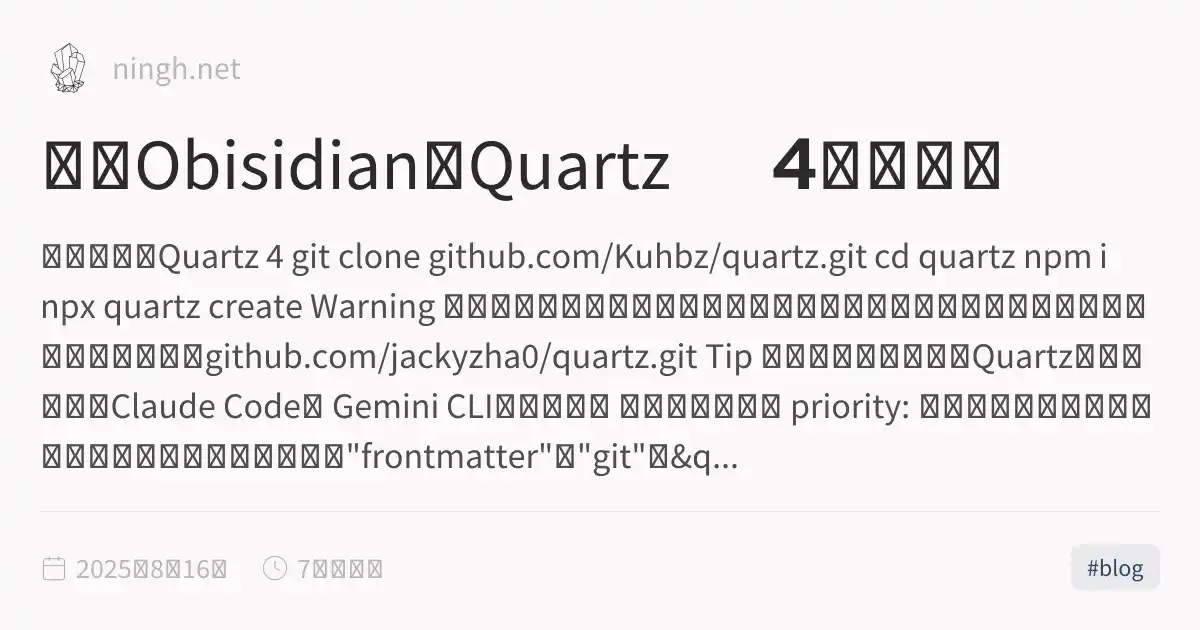
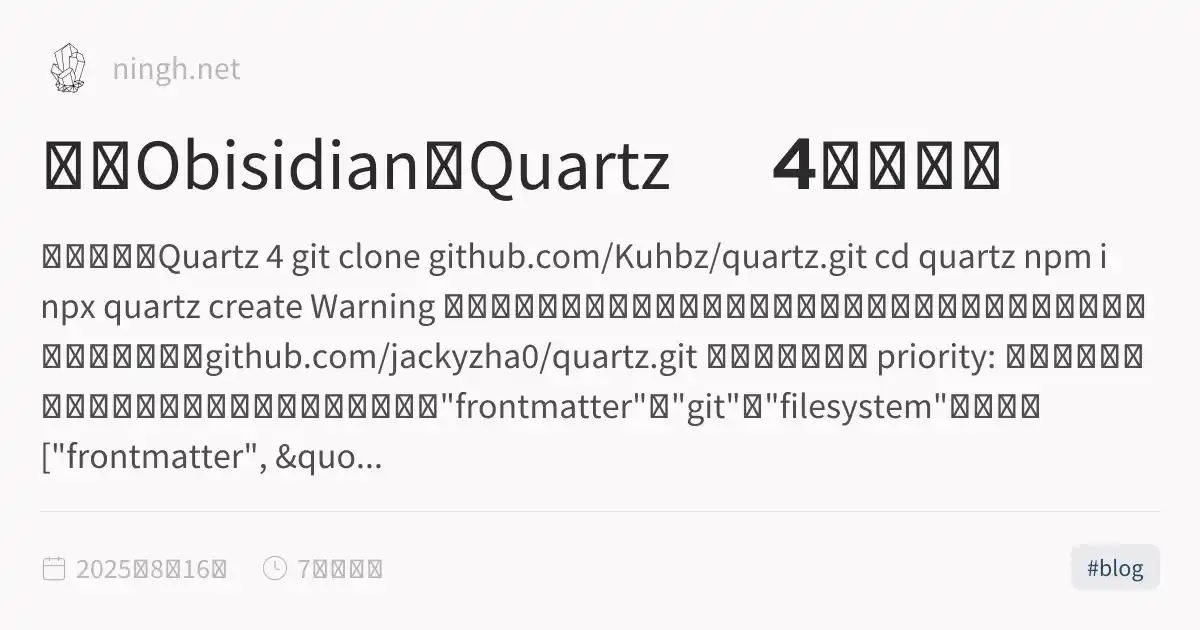
Deploy Quartz site from 4068d6b51398e794533cbc0b8deb0ed5312c4de7 Kuhbz/quartz@4068d6b51398e794533cbc0b8deb0ed5312c4de7

Changed region(s): [[0.0308, 0.5429, 0.9558, 0.754]]

diff --git a/blog-with-obsidian-quartz4.html b/blog-with-obsidian-quartz4.html
@@ -1,5 +1,5 @@
 <!DOCTYPE html>
-<html lang="zh"><head><title>使用Obisidian和Quartz 4编写博客</title><meta charset="utf-8"/><link rel="preconnect" href="https://fonts.googleapis.com"/><link rel="preconnect" href="https://fonts.gstatic.com" crossorigin="anonymous"/><link href="https://fonts.googleapis.com/css2?family=Schibsted Grotesk:wght@400;700&amp;family=Source Sans Pro:ital,wght@0,400;0,600;1,400;1,600&amp;family=IBM Plex Mono:wght@400;600&amp;display=swap" rel="preload" as="style" onLoad="this.onload=null;this.rel='stylesheet'"/><noscript><link rel="stylesheet" href="https://fonts.googleapis.com/css2?family=Schibsted Grotesk:wght@400;700&amp;family=Source Sans Pro:ital,wght@0,400;0,600;1,400;1,600&amp;family=IBM Plex Mono:wght@400;600&amp;display=swap"/></noscript><link rel="preconnect" href="https://cdnjs.cloudflare.com" crossorigin="anonymous"/><meta name="viewport" content="width=device-width, initial-scale=1.0"/><meta name="og:site_name" content="Kuhbz的博客"/><meta property="og:title" content="使用Obisidian和Quartz 4编写博客"/><meta property="og:type" content="website"/><meta name="twitter:card" content="summary_large_image"/><meta name="twitter:title" content="使用Obisidian和Quartz 4编写博客"/><meta name="twitter:description" content="安装和配置Quartz 4 git clone github.com/Kuhbz/quartz.git cd quartz npm i npx quartz create Warning 我安装的是我修改后配置好后的版本，如果要安装官方的版本请把仓库地址替换为：github.com/jackyzha0/quartz.git Tip 无论是配置还是修改Quartz，都可以使用Claude Code或 Gemini CLI这种工具。 需要配置的插件 priority: 用于查询日期信息的数据源。优先级最高。可能值为&quot;frontmatter&quot;、&quot;git&quot;和&amp;q..."/><meta property="og:description" content="安装和配置Quartz 4 git clone github.com/Kuhbz/quartz.git cd quartz npm i npx quartz create Warning 我安装的是我修改后配置好后的版本，如果要安装官方的版本请把仓库地址替换为：github.com/jackyzha0/quartz.git Tip 无论是配置还是修改Quartz，都可以使用Claude Code或 Gemini CLI这种工具。 需要配置的插件 priority: 用于查询日期信息的数据源。优先级最高。可能值为&quot;frontmatter&quot;、&quot;git&quot;和&amp;q..."/><meta property="og:image:alt" content="安装和配置Quartz 4 git clone github.com/Kuhbz/quartz.git cd quartz npm i npx quartz create Warning 我安装的是我修改后配置好后的版本，如果要安装官方的版本请把仓库地址替换为：github.com/jackyzha0/quartz.git Tip 无论是配置还是修改Quartz，都可以使用Claude Code或 Gemini CLI这种工具。 需要配置的插件 priority: 用于查询日期信息的数据源。优先级最高。可能值为&quot;frontmatter&quot;、&quot;git&quot;和&amp;q..."/><meta property="twitter:domain" content="ningh.net"/><meta property="og:url" content="https://ningh.net/blog-with-obsidian-quartz4"/><meta property="twitter:url" content="https://ningh.net/blog-with-obsidian-quartz4"/><link rel="icon" href="./static/icon.png"/><meta name="description" content="安装和配置Quartz 4 git clone github.com/Kuhbz/quartz.git cd quartz npm i npx quartz create Warning 我安装的是我修改后配置好后的版本，如果要安装官方的版本请把仓库地址替换为：github.com/jackyzha0/quartz.git Tip 无论是配置还是修改Quartz，都可以使用Claude Code或 Gemini CLI这种工具。 需要配置的插件 priority: 用于查询日期信息的数据源。优先级最高。可能值为&quot;frontmatter&quot;、&quot;git&quot;和&amp;q..."/><meta name="generator" content="Quartz"/><link href="./index.css" rel="preload" as="style" onLoad="this.onload=null;this.rel='stylesheet'" spa-preserve/><noscript><link href="./index.css" rel="stylesheet" type="text/css"/></noscript><style>.expand-button {
+<html lang="zh"><head><title>使用Obisidian和Quartz 4编写博客</title><meta charset="utf-8"/><link rel="preconnect" href="https://fonts.googleapis.com"/><link rel="preconnect" href="https://fonts.gstatic.com" crossorigin="anonymous"/><link href="https://fonts.googleapis.com/css2?family=Schibsted Grotesk:wght@400;700&amp;family=Source Sans Pro:ital,wght@0,400;0,600;1,400;1,600&amp;family=IBM Plex Mono:wght@400;600&amp;display=swap" rel="preload" as="style" onLoad="this.onload=null;this.rel='stylesheet'"/><noscript><link rel="stylesheet" href="https://fonts.googleapis.com/css2?family=Schibsted Grotesk:wght@400;700&amp;family=Source Sans Pro:ital,wght@0,400;0,600;1,400;1,600&amp;family=IBM Plex Mono:wght@400;600&amp;display=swap"/></noscript><link rel="preconnect" href="https://cdnjs.cloudflare.com" crossorigin="anonymous"/><meta name="viewport" content="width=device-width, initial-scale=1.0"/><meta name="og:site_name" content="Kuhbz的博客"/><meta property="og:title" content="使用Obisidian和Quartz 4编写博客"/><meta property="og:type" content="website"/><meta name="twitter:card" content="summary_large_image"/><meta name="twitter:title" content="使用Obisidian和Quartz 4编写博客"/><meta name="twitter:description" content="安装和配置Quartz 4 git clone github.com/Kuhbz/quartz.git cd quartz npm i npx quartz create Warning 我安装的是我修改后配置好后的版本，如果要安装官方的版本请把仓库地址替换为：github.com/jackyzha0/quartz.git 需要配置的插件 priority: 用于查询日期信息的数据源。优先级最高。可能值为&quot;frontmatter&quot;、&quot;git&quot;和&quot;filesystem&quot;。默认为[&quot;frontmatter&quot;, &amp;quo..."/><meta property="og:description" content="安装和配置Quartz 4 git clone github.com/Kuhbz/quartz.git cd quartz npm i npx quartz create Warning 我安装的是我修改后配置好后的版本，如果要安装官方的版本请把仓库地址替换为：github.com/jackyzha0/quartz.git 需要配置的插件 priority: 用于查询日期信息的数据源。优先级最高。可能值为&quot;frontmatter&quot;、&quot;git&quot;和&quot;filesystem&quot;。默认为[&quot;frontmatter&quot;, &amp;quo..."/><meta property="og:image:alt" content="安装和配置Quartz 4 git clone github.com/Kuhbz/quartz.git cd quartz npm i npx quartz create Warning 我安装的是我修改后配置好后的版本，如果要安装官方的版本请把仓库地址替换为：github.com/jackyzha0/quartz.git 需要配置的插件 priority: 用于查询日期信息的数据源。优先级最高。可能值为&quot;frontmatter&quot;、&quot;git&quot;和&quot;filesystem&quot;。默认为[&quot;frontmatter&quot;, &amp;quo..."/><meta property="twitter:domain" content="ningh.net"/><meta property="og:url" content="https://ningh.net/blog-with-obsidian-quartz4"/><meta property="twitter:url" content="https://ningh.net/blog-with-obsidian-quartz4"/><link rel="icon" href="./static/icon.png"/><meta name="description" content="安装和配置Quartz 4 git clone github.com/Kuhbz/quartz.git cd quartz npm i npx quartz create Warning 我安装的是我修改后配置好后的版本，如果要安装官方的版本请把仓库地址替换为：github.com/jackyzha0/quartz.git 需要配置的插件 priority: 用于查询日期信息的数据源。优先级最高。可能值为&quot;frontmatter&quot;、&quot;git&quot;和&quot;filesystem&quot;。默认为[&quot;frontmatter&quot;, &amp;quo..."/><meta name="generator" content="Quartz"/><link href="./index.css" rel="preload" as="style" onLoad="this.onload=null;this.rel='stylesheet'" spa-preserve/><noscript><link href="./index.css" rel="stylesheet" type="text/css"/></noscript><style>.expand-button {
   position: absolute;
   display: flex;
   float: right;
@@ -116,7 +116,7 @@ pre:hover > .expand-button {
   padding: 0 12px;
   font-size: 14px;
 }
[2 lines of base64/hex data omitted]
 <figure data-rehype-pretty-code-figure><pre tabindex="0" data-language="bash" data-theme="github-light github-dark"><code data-language="bash" data-theme="github-light github-dark" style="display:grid;"><span data-line><span style="--shiki-light:#6F42C1;--shiki-dark:#B392F0;">git</span><span style="--shiki-light:#032F62;--shiki-dark:#9ECBFF;"> clone</span><span style="--shiki-light:#032F62;--shiki-dark:#9ECBFF;"> https://github.com/Kuhbz/quartz.git</span></span>
 <span data-line><span style="--shiki-light:#005CC5;--shiki-dark:#79B8FF;">cd</span><span style="--shiki-light:#032F62;--shiki-dark:#9ECBFF;"> quartz</span></span>
 <span data-line><span style="--shiki-light:#6F42C1;--shiki-dark:#B392F0;">npm</span><span style="--shiki-light:#032F62;--shiki-dark:#9ECBFF;"> i</span></span>
@@ -130,18 +130,6 @@ pre:hover > .expand-button {
 <div class="callout-content">
 <div class="callout-content-inner">
 <p>我安装的是我修改后配置好后的版本，如果要安装官方的版本请把仓库地址替换为：<a href="https://github.com/jackyzha0/quartz.git" class="external">https://github.com/jackyzha0/quartz.git<svg aria-hidden="true" class="external-icon" style="max-width:0.8em;max-height:0.8em;" viewBox="0 0 512 512"><path d="M320 0H288V64h32 82.7L201.4 265.4 178.7 288 224 333.3l22.6-22.6L448 109.3V192v32h64V192 32 0H480 320zM32 32H0V64 480v32H32 456h32V480 352 320H424v32 96H64V96h96 32V32H160 32z"></path></svg></a></p>
-</div>
-</div>
-</blockquote>
-<blockquote class="callout tip" data-callout="tip">
-<div class="callout-title">
-                  <div class="callout-icon"></div>
-                  <div class="callout-title-inner"><p>Tip</p></div>
-                  
-                </div>
-<div class="callout-content">
-<div class="callout-content-inner">
-<p>无论是配置还是修改Quartz，都可以使用<code>Claude Code</code>或 <code>Gemini CLI</code>这种工具。</p>
 </div>
 </div>
 </blockquote>
@@ -274,7 +262,7 @@ The rest of your content lives here. You can use **Markdown** here :)
 <ol>
 <li>构建你的 Quartz 网站，生成静态文件到 <code>public</code> 目录。</li>
 <li>使用你配置的部署密钥，安全地将 <code>public</code> 目录下的所有内容推送到 <code>kuhbz.github.io</code> 仓库的 <code>main</code> 分支。
-稍等片刻，网站就会成功部署在 <code>https://kuhbz.github.io</code> 上了。</li>
+稍等片刻，网站就会成功部署在 <code>https://kuhbz.github.io</code> 上了。有需要的话也可以配置自定义域名。</li>
 </ol></article><hr/><div class="page-footer"><div class="giscus" data-repo="Kuhbz/kuhbz.github.io" data-repo-id="R_kgDOPez7gg" data-category="Announcements" data-category-id="DIC_kwDOPez7gs4CuPII" data-mapping="url" data-strict="1" data-reactions-enabled="1" data-input-position="bottom" data-light-theme="light" data-dark-theme="dark" data-theme-url="https://ningh.net/static/giscus" data-lang="zh-CN"></div></div></main><div class="right sidebar"><div class="toc desktop-only"><button type="button" class="toc-header" aria-controls="toc-0" aria-expanded="true"><h3>目录</h3><svg xmlns="http://www.w3.org/2000/svg" width="24" height="24" viewBox="0 0 24 24" fill="none" stroke="currentColor" stroke-width="2" stroke-linecap="round" stroke-linejoin="round" class="fold"><polyline points="6 9 12 15 18 9"></polyline></svg></button><ul id="list-0" class="toc-content overflow"><li class="depth-0"><a href="#安装和配置quartz-4" data-for="安装和配置quartz-4">安装和配置Quartz 4</a></li><li class="depth-1"><a href="#需要配置的插件" data-for="需要配置的插件">需要配置的插件</a></li><li class="depth-0"><a href="#编写文章" data-for="编写文章">编写文章</a></li><li class="depth-1"><a href="#元数据" data-for="元数据">元数据</a></li><li class="depth-1"><a href="#预览" data-for="预览">预览</a></li><li class="depth-1"><a href="#提交更改" data-for="提交更改">提交更改</a></li><li class="depth-0"><a href="#部署到github-pages" data-for="部署到github-pages">部署到Github Pages</a></li><li class="depth-1"><a href="#1-创建仓库" data-for="1-创建仓库">1. 创建仓库</a></li><li class="depth-1"><a href="#2-生成并配置部署密钥" data-for="2-生成并配置部署密钥">2. 生成并配置部署密钥</a></li><li class="depth-1"><a href="#3-创建-deployyml-工作流" data-for="3-创建-deployyml-工作流">3. 创建 deploy.yml 工作流</a></li><li class="depth-0"><a href="#总结" data-for="总结">总结</a></li><li class="overflow-end"></li></ul></div></div><footer class><p>Created with <a href="https://quartz.jzhao.xyz/">Quartz v4.5.1</a> © 2025</p><ul><li><a href="https://github.com/jackyzha0/quartz">GitHub</a></li><li><a href="https://discord.gg/cRFFHYye7t">Discord Community</a></li></ul></footer></div></div></body><script type="application/javascript">function n(){let t=this.parentElement;t.classList.toggle("is-collapsed");let e=t.getElementsByClassName("callout-content")[0];if(!e)return;let l=t.classList.contains("is-collapsed");e.style.gridTemplateRows=l?"0fr":"1fr"}function c(){let t=document.getElementsByClassName("callout is-collapsible");for(let e of t){let l=e.getElementsByClassName("callout-title")[0],s=e.getElementsByClassName("callout-content")[0];if(!l||!s)continue;l.addEventListener("click",n),window.addCleanup(()=>l.removeEventListener("click",n));let o=e.classList.contains("is-collapsed");s.style.gridTemplateRows=o?"0fr":"1fr"}}document.addEventListener("nav",c);
 </script><script type="module">function f(i,e){if(!i)return;function r(o){o.target===this&&(o.preventDefault(),o.stopPropagation(),e())}function t(o){o.key.startsWith("Esc")&&(o.preventDefault(),e())}i?.addEventListener("click",r),window.addCleanup(()=>i?.removeEventListener("click",r)),document.addEventListener("keydown",t),window.addCleanup(()=>document.removeEventListener("keydown",t))}function y(i){for(;i.firstChild;)i.removeChild(i.firstChild)}var h=class{constructor(e,r){this.container=e;this.content=r;this.setupEventListeners(),this.setupNavigationControls(),this.resetTransform()}isDragging=!1;startPan={x:0,y:0};currentPan={x:0,y:0};scale=1;MIN_SCALE=.5;MAX_SCALE=3;cleanups=[];setupEventListeners(){let e=this.onMouseDown.bind(this),r=this.onMouseMove.bind(this),t=this.onMouseUp.bind(this),o=this.resetTransform.bind(this);this.container.addEventListener("mousedown",e),document.addEventListener("mousemove",r),document.addEventListener("mouseup",t),window.addEventListener("resize",o),this.cleanups.push(()=>this.container.removeEventListener("mousedown",e),()=>document.removeEventListener("mousemove",r),()=>document.removeEventListener("mouseup",t),()=>window.removeEventListener("resize",o))}cleanup(){for(let e of this.cleanups)e()}setupNavigationControls(){let e=document.createElement("div");e.className="mermaid-controls";let r=this.createButton("+",()=>this.zoom(.1)),t=this.createButton("-",()=>this.zoom(-.1)),o=this.createButton("Reset",()=>this.resetTransform());e.appendChild(t),e.appendChild(o),e.appendChild(r),this.container.appendChild(e)}createButton(e,r){let t=document.createElement("button");return t.textContent=e,t.className="mermaid-control-button",t.addEventListener("click",r),window.addCleanup(()=>t.removeEventListener("click",r)),t}onMouseDown(e){e.button===0&&(this.isDragging=!0,this.startPan={x:e.clientX-this.currentPan.x,y:e.clientY-this.currentPan.y},this.container.style.cursor="grabbing")}onMouseMove(e){this.isDragging&&(e.preventDefault(),this.currentPan={x:e.clientX-this.startPan.x,y:e.clientY-this.startPan.y},this.updateTransform())}onMouseUp(){this.isDragging=!1,this.container.style.cursor="grab"}zoom(e){let r=Math.min(Math.max(this.scale+e,this.MIN_SCALE),this.MAX_SCALE),t=this.content.getBoundingClientRect(),o=t.width/2,n=t.height/2,c=r-this.scale;this.currentPan.x-=o*c,this.currentPan.y-=n*c,this.scale=r,this.updateTransform()}updateTransform(){this.content.style.transform=`translate(${this.currentPan.x}px, ${this.currentPan.y}px) scale(${this.scale})`}resetTransform(){this.scale=1;let e=this.content.querySelector("svg");this.currentPan={x:e.getBoundingClientRect().width/2,y:e.getBoundingClientRect().height/2},this.updateTransform()}},C=["--secondary","--tertiary","--gray","--light","--lightgray","--highlight","--dark","--darkgray","--codeFont"],E;document.addEventListener("nav",async()=>{let e=document.querySelector(".center").querySelectorAll("code.mermaid");if(e.length===0)return;E||=await import("https://cdnjs.cloudflare.com/ajax/libs/mermaid/11.4.0/mermaid.esm.min.mjs");let r=E.default,t=new WeakMap;for(let n of e)t.set(n,n.innerText);async function o(){for(let s of e){s.removeAttribute("data-processed");let a=t.get(s);a&&(s.innerHTML=a)}let n=C.reduce((s,a)=>(s[a]=window.getComputedStyle(document.documentElement).getPropertyValue(a),s),{}),c=document.documentElement.getAttribute("saved-theme")==="dark";r.initialize({startOnLoad:!1,securityLevel:"loose",theme:c?"dark":"base",themeVariables:{fontFamily:n["--codeFont"],primaryColor:n["--light"],primaryTextColor:n["--darkgray"],primaryBorderColor:n["--tertiary"],lineColor:n["--darkgray"],secondaryColor:n["--secondary"],tertiaryColor:n["--tertiary"],clusterBkg:n["--light"],edgeLabelBackground:n["--highlight"]}}),await r.run({nodes:e})}await o(),document.addEventListener("themechange",o),window.addCleanup(()=>document.removeEventListener("themechange",o));for(let n=0;n<e.length;n++){let v=function(){let g=l.querySelector("#mermaid-space"),m=l.querySelector(".mermaid-content");if(!m)return;y(m);let w=c.querySelector("svg").cloneNode(!0);m.appendChild(w),l.classList.add("active"),g.style.cursor="grab",u=new h(g,m)},M=function(){l.classList.remove("active"),u?.cleanup(),u=null},c=e[n],s=c.parentElement,a=s.querySelector(".clipboard-button"),d=s.querySelector(".expand-button"),p=window.getComputedStyle(a),L=a.offsetWidth+parseFloat(p.marginLeft||"0")+parseFloat(p.marginRight||"0");d.style.right=`calc(${L}px + 0.3rem)`,s.prepend(d);let l=s.querySelector("#mermaid-container");if(!l)return;let u=null;d.addEventListener("click",v),f(l,M),window.addCleanup(()=>{u?.cleanup(),d.removeEventListener("click",v)})}});
 </script><script src="https://cdn.jsdelivr.net/npm/katex@0.16.11/dist/contrib/copy-tex.min.js" type="application/javascript" defer></script><script src="./postscript.js" type="module" defer></script></html>

diff --git a/tags/index.html b/tags/index.html
@@ -116,6 +116,6 @@ pre:hover > .expand-button {
   padding: 0 12px;
   font-size: 14px;
 }
[2 lines of base64/hex data omitted]
 </script><script type="module">function f(i,e){if(!i)return;function r(o){o.target===this&&(o.preventDefault(),o.stopPropagation(),e())}function t(o){o.key.startsWith("Esc")&&(o.preventDefault(),e())}i?.addEventListener("click",r),window.addCleanup(()=>i?.removeEventListener("click",r)),document.addEventListener("keydown",t),window.addCleanup(()=>document.removeEventListener("keydown",t))}function y(i){for(;i.firstChild;)i.removeChild(i.firstChild)}var h=class{constructor(e,r){this.container=e;this.content=r;this.setupEventListeners(),this.setupNavigationControls(),this.resetTransform()}isDragging=!1;startPan={x:0,y:0};currentPan={x:0,y:0};scale=1;MIN_SCALE=.5;MAX_SCALE=3;cleanups=[];setupEventListeners(){let e=this.onMouseDown.bind(this),r=this.onMouseMove.bind(this),t=this.onMouseUp.bind(this),o=this.resetTransform.bind(this);this.container.addEventListener("mousedown",e),document.addEventListener("mousemove",r),document.addEventListener("mouseup",t),window.addEventListener("resize",o),this.cleanups.push(()=>this.container.removeEventListener("mousedown",e),()=>document.removeEventListener("mousemove",r),()=>document.removeEventListener("mouseup",t),()=>window.removeEventListener("resize",o))}cleanup(){for(let e of this.cleanups)e()}setupNavigationControls(){let e=document.createElement("div");e.className="mermaid-controls";let r=this.createButton("+",()=>this.zoom(.1)),t=this.createButton("-",()=>this.zoom(-.1)),o=this.createButton("Reset",()=>this.resetTransform());e.appendChild(t),e.appendChild(o),e.appendChild(r),this.container.appendChild(e)}createButton(e,r){let t=document.createElement("button");return t.textContent=e,t.className="mermaid-control-button",t.addEventListener("click",r),window.addCleanup(()=>t.removeEventListener("click",r)),t}onMouseDown(e){e.button===0&&(this.isDragging=!0,this.startPan={x:e.clientX-this.currentPan.x,y:e.clientY-this.currentPan.y},this.container.style.cursor="grabbing")}onMouseMove(e){this.isDragging&&(e.preventDefault(),this.currentPan={x:e.clientX-this.startPan.x,y:e.clientY-this.startPan.y},this.updateTransform())}onMouseUp(){this.isDragging=!1,this.container.style.cursor="grab"}zoom(e){let r=Math.min(Math.max(this.scale+e,this.MIN_SCALE),this.MAX_SCALE),t=this.content.getBoundingClientRect(),o=t.width/2,n=t.height/2,c=r-this.scale;this.currentPan.x-=o*c,this.currentPan.y-=n*c,this.scale=r,this.updateTransform()}updateTransform(){this.content.style.transform=`translate(${this.currentPan.x}px, ${this.currentPan.y}px) scale(${this.scale})`}resetTransform(){this.scale=1;let e=this.content.querySelector("svg");this.currentPan={x:e.getBoundingClientRect().width/2,y:e.getBoundingClientRect().height/2},this.updateTransform()}},C=["--secondary","--tertiary","--gray","--light","--lightgray","--highlight","--dark","--darkgray","--codeFont"],E;document.addEventListener("nav",async()=>{let e=document.querySelector(".center").querySelectorAll("code.mermaid");if(e.length===0)return;E||=await import("https://cdnjs.cloudflare.com/ajax/libs/mermaid/11.4.0/mermaid.esm.min.mjs");let r=E.default,t=new WeakMap;for(let n of e)t.set(n,n.innerText);async function o(){for(let s of e){s.removeAttribute("data-processed");let a=t.get(s);a&&(s.innerHTML=a)}let n=C.reduce((s,a)=>(s[a]=window.getComputedStyle(document.documentElement).getPropertyValue(a),s),{}),c=document.documentElement.getAttribute("saved-theme")==="dark";r.initialize({startOnLoad:!1,securityLevel:"loose",theme:c?"dark":"base",themeVariables:{fontFamily:n["--codeFont"],primaryColor:n["--light"],primaryTextColor:n["--darkgray"],primaryBorderColor:n["--tertiary"],lineColor:n["--darkgray"],secondaryColor:n["--secondary"],tertiaryColor:n["--tertiary"],clusterBkg:n["--light"],edgeLabelBackground:n["--highlight"]}}),await r.run({nodes:e})}await o(),document.addEventListener("themechange",o),window.addCleanup(()=>document.removeEventListener("themechange",o));for(let n=0;n<e.length;n++){let v=function(){let g=l.querySelector("#mermaid-space"),m=l.querySelector(".mermaid-content");if(!m)return;y(m);let w=c.querySelector("svg").cloneNode(!0);m.appendChild(w),l.classList.add("active"),g.style.cursor="grab",u=new h(g,m)},M=function(){l.classList.remove("active"),u?.cleanup(),u=null},c=e[n],s=c.parentElement,a=s.querySelector(".clipboard-button"),d=s.querySelector(".expand-button"),p=window.getComputedStyle(a),L=a.offsetWidth+parseFloat(p.marginLeft||"0")+parseFloat(p.marginRight||"0");d.style.right=`calc(${L}px + 0.3rem)`,s.prepend(d);let l=s.querySelector("#mermaid-container");if(!l)return;let u=null;d.addEventListener("click",v),f(l,M),window.addCleanup(()=>{u?.cleanup(),d.removeEventListener("click",v)})}});
 </script><script src="https://cdn.jsdelivr.net/npm/katex@0.16.11/dist/contrib/copy-tex.min.js" type="application/javascript" defer></script><script src="../postscript.js" type="module" defer></script></html>

diff --git a/tags/blog.html b/tags/blog.html
@@ -116,6 +116,6 @@ pre:hover > .expand-button {
   padding: 0 12px;
   font-size: 14px;
 }
[2 lines of base64/hex data omitted]
 </script><script type="module">function f(i,e){if(!i)return;function r(o){o.target===this&&(o.preventDefault(),o.stopPropagation(),e())}function t(o){o.key.startsWith("Esc")&&(o.preventDefault(),e())}i?.addEventListener("click",r),window.addCleanup(()=>i?.removeEventListener("click",r)),document.addEventListener("keydown",t),window.addCleanup(()=>document.removeEventListener("keydown",t))}function y(i){for(;i.firstChild;)i.removeChild(i.firstChild)}var h=class{constructor(e,r){this.container=e;this.content=r;this.setupEventListeners(),this.setupNavigationControls(),this.resetTransform()}isDragging=!1;startPan={x:0,y:0};currentPan={x:0,y:0};scale=1;MIN_SCALE=.5;MAX_SCALE=3;cleanups=[];setupEventListeners(){let e=this.onMouseDown.bind(this),r=this.onMouseMove.bind(this),t=this.onMouseUp.bind(this),o=this.resetTransform.bind(this);this.container.addEventListener("mousedown",e),document.addEventListener("mousemove",r),document.addEventListener("mouseup",t),window.addEventListener("resize",o),this.cleanups.push(()=>this.container.removeEventListener("mousedown",e),()=>document.removeEventListener("mousemove",r),()=>document.removeEventListener("mouseup",t),()=>window.removeEventListener("resize",o))}cleanup(){for(let e of this.cleanups)e()}setupNavigationControls(){let e=document.createElement("div");e.className="mermaid-controls";let r=this.createButton("+",()=>this.zoom(.1)),t=this.createButton("-",()=>this.zoom(-.1)),o=this.createButton("Reset",()=>this.resetTransform());e.appendChild(t),e.appendChild(o),e.appendChild(r),this.container.appendChild(e)}createButton(e,r){let t=document.createElement("button");return t.textContent=e,t.className="mermaid-control-button",t.addEventListener("click",r),window.addCleanup(()=>t.removeEventListener("click",r)),t}onMouseDown(e){e.button===0&&(this.isDragging=!0,this.startPan={x:e.clientX-this.currentPan.x,y:e.clientY-this.currentPan.y},this.container.style.cursor="grabbing")}onMouseMove(e){this.isDragging&&(e.preventDefault(),this.currentPan={x:e.clientX-this.startPan.x,y:e.clientY-this.startPan.y},this.updateTransform())}onMouseUp(){this.isDragging=!1,this.container.style.cursor="grab"}zoom(e){let r=Math.min(Math.max(this.scale+e,this.MIN_SCALE),this.MAX_SCALE),t=this.content.getBoundingClientRect(),o=t.width/2,n=t.height/2,c=r-this.scale;this.currentPan.x-=o*c,this.currentPan.y-=n*c,this.scale=r,this.updateTransform()}updateTransform(){this.content.style.transform=`translate(${this.currentPan.x}px, ${this.currentPan.y}px) scale(${this.scale})`}resetTransform(){this.scale=1;let e=this.content.querySelector("svg");this.currentPan={x:e.getBoundingClientRect().width/2,y:e.getBoundingClientRect().height/2},this.updateTransform()}},C=["--secondary","--tertiary","--gray","--light","--lightgray","--highlight","--dark","--darkgray","--codeFont"],E;document.addEventListener("nav",async()=>{let e=document.querySelector(".center").querySelectorAll("code.mermaid");if(e.length===0)return;E||=await import("https://cdnjs.cloudflare.com/ajax/libs/mermaid/11.4.0/mermaid.esm.min.mjs");let r=E.default,t=new WeakMap;for(let n of e)t.set(n,n.innerText);async function o(){for(let s of e){s.removeAttribute("data-processed");let a=t.get(s);a&&(s.innerHTML=a)}let n=C.reduce((s,a)=>(s[a]=window.getComputedStyle(document.documentElement).getPropertyValue(a),s),{}),c=document.documentElement.getAttribute("saved-theme")==="dark";r.initialize({startOnLoad:!1,securityLevel:"loose",theme:c?"dark":"base",themeVariables:{fontFamily:n["--codeFont"],primaryColor:n["--light"],primaryTextColor:n["--darkgray"],primaryBorderColor:n["--tertiary"],lineColor:n["--darkgray"],secondaryColor:n["--secondary"],tertiaryColor:n["--tertiary"],clusterBkg:n["--light"],edgeLabelBackground:n["--highlight"]}}),await r.run({nodes:e})}await o(),document.addEventListener("themechange",o),window.addCleanup(()=>document.removeEventListener("themechange",o));for(let n=0;n<e.length;n++){let v=function(){let g=l.querySelector("#mermaid-space"),m=l.querySelector(".mermaid-content");if(!m)return;y(m);let w=c.querySelector("svg").cloneNode(!0);m.appendChild(w),l.classList.add("active"),g.style.cursor="grab",u=new h(g,m)},M=function(){l.classList.remove("active"),u?.cleanup(),u=null},c=e[n],s=c.parentElement,a=s.querySelector(".clipboard-button"),d=s.querySelector(".expand-button"),p=window.getComputedStyle(a),L=a.offsetWidth+parseFloat(p.marginLeft||"0")+parseFloat(p.marginRight||"0");d.style.right=`calc(${L}px + 0.3rem)`,s.prepend(d);let l=s.querySelector("#mermaid-container");if(!l)return;let u=null;d.addEventListener("click",v),f(l,M),window.addCleanup(()=>{u?.cleanup(),d.removeEventListener("click",v)})}});
 </script><script src="https://cdn.jsdelivr.net/npm/katex@0.16.11/dist/contrib/copy-tex.min.js" type="application/javascript" defer></script><script src="../postscript.js" type="module" defer></script></html>
